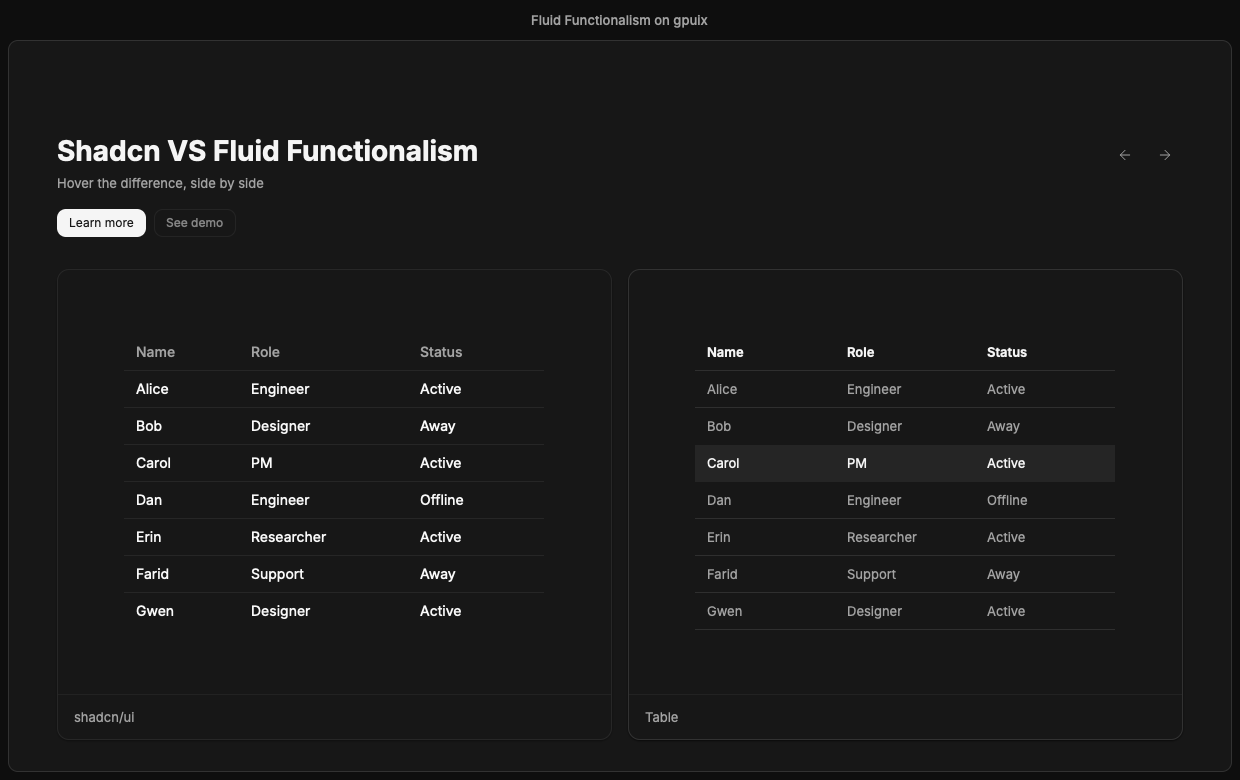
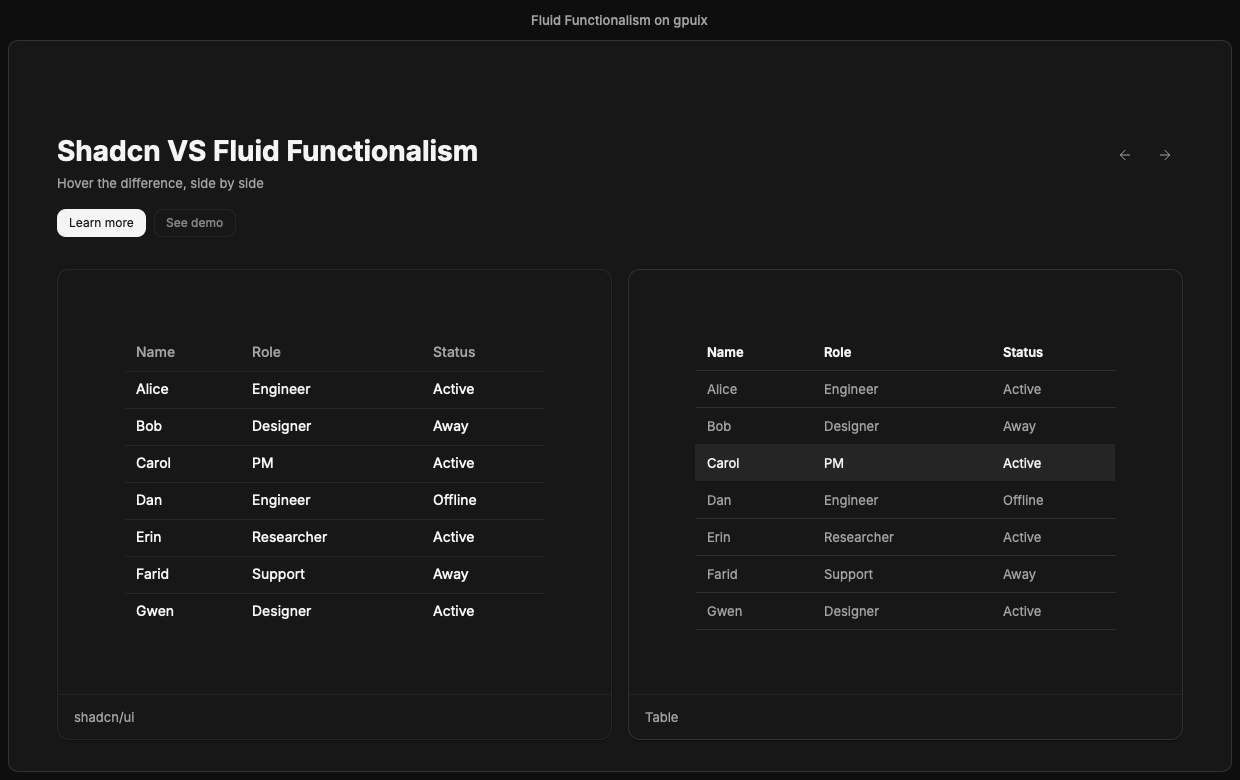
Compare: the shadcn table is a real display:table that sizes by content; the estimated-width drift entry closes

diff --git a/src/pages/compare/shadcn/table.tsx b/src/pages/compare/shadcn/table.tsx
@@ -2,37 +2,22 @@ import { For } from 'solid-js';
 import { weight, withAlpha } from '#/lib/theme';
 import { sc } from './theme';
 
-/** Inter at 14px averages about this per character; the cell padding is 12 each side. */
-const CHAR_WIDTH = 7.4;
-const CELL_PAD = 24;
-
 /**
- * `components/shadcn/table.tsx` with the preview's cell overrides (`px-3 py-2`). A browser's auto table layout
- * shares the row's width out in proportion to each column's longest cell; gpuix has no table layout, so the
- * columns grow in that proportion, estimated from the text lengths.
+ * `components/shadcn/table.tsx` with the preview's cell overrides (`px-3 py-2`): a `relative w-full overflow-auto`
+ * wrapper around a `w-full text-sm` collapsed-border table, whose columns size to their widest cell as in a browser.
  */
 export function ScTable(props: {
 	columns: readonly string[];
 	rows: readonly (readonly string[])[];
 	testId?: string;
 }) {
-	const grow = (column: number) =>
-		Math.max(
-			...[props.columns, ...props.rows].map((cells) => {
-				const cell = cells[column];
-				if (cell === undefined) throw new Error(`No cell in column ${column}`);
-				return cell.length;
-			}),
-		) *
-			CHAR_WIDTH +
-		CELL_PAD;
-
-	const cell = (text: string, column: number, header: boolean) => (
+	const cell = (text: string, header: boolean) => (
 		<div
+			role={header ? 'columnheader' : 'cell'}
 			style={{
-				flexBasis: 0,
-				flexGrow: grow(column),
-				minWidth: 0,
+				display: 'table-cell',
+				verticalAlign: 'middle',
+				textAlign: 'left',
 				paddingLeft: 12,
 				paddingRight: 12,
 				paddingTop: 8,
@@ -53,51 +38,53 @@ export function ScTable(props: {
 		</div>
 	);
 
+	const ruled = {
+		borderBottomStyle: 'solid',
+		borderBottomWidth: 1,
+		borderBottomColor: sc.border,
+	} as const;
+
 	return (
-		<div
-			role="table"
-			testId={props.testId}
-			style={{ display: 'flex', flexDirection: 'column', width: '100%' }}
-		>
+		<div style={{ position: 'relative', width: '100%', overflow: 'auto' }}>
 			<div
-				role="row"
+				role="table"
+				testId={props.testId}
 				style={{
-					display: 'flex',
-					flexDirection: 'row',
-					borderBottomStyle: 'solid',
-					borderBottomWidth: 1,
-					borderColor: sc.border,
+					display: 'table',
+					borderCollapse: 'collapse',
+					width: '100%',
 				}}
 			>
-				<For each={props.columns}>
-					{(column, index) => cell(column, index(), true)}
-				</For>
-			</div>
-			<For each={props.rows}>
-				{(row, rowIndex) => (
-					<div
-						role="row"
-						testId={
-							props.testId === undefined
-								? undefined
-								: `${props.testId}-row-${rowIndex()}`
-						}
-						style={{
-							display: 'flex',
-							flexDirection: 'row',
-							borderBottomStyle: 'solid',
-							borderBottomWidth: rowIndex() === props.rows.length - 1 ? 0 : 1,
-							borderColor: sc.border,
-							transitionProperty: 'background-color',
-							transitionDuration: '150ms',
-							transitionTimingFunction: 'cubic-bezier(0.4, 0, 0.2, 1)',
-							hover: { backgroundColor: withAlpha(sc.muted, 0.5) },
-						}}
-					>
-						<For each={row}>{(text, index) => cell(text, index(), false)}</For>
+				<div style={{ display: 'table-header-group' }}>
+					<div role="row" style={{ display: 'table-row', ...ruled }}>
+						<For each={props.columns}>{(column) => cell(column, true)}</For>
 					</div>
-				)}
-			</For>
+				</div>
+				<div style={{ display: 'table-row-group' }}>
+					<For each={props.rows}>
+						{(row, rowIndex) => (
+							<div
+								role="row"
+								testId={
+									props.testId === undefined
+										? undefined
+										: `${props.testId}-row-${rowIndex()}`
+								}
+								style={{
+									display: 'table-row',
+									...(rowIndex() === props.rows.length - 1 ? {} : ruled),
+									transitionProperty: 'background-color',
+									transitionDuration: '150ms',
+									transitionTimingFunction: 'cubic-bezier(0.4, 0, 0.2, 1)',
+									hover: { backgroundColor: withAlpha(sc.muted, 0.5) },
+								}}
+							>
+								<For each={row}>{(text) => cell(text, false)}</For>
+							</div>
+						)}
+					</For>
+				</div>
+			</div>
 		</div>
 	);
 }

diff --git a/drift/compare.md b/drift/compare.md
@@ -42,14 +42,6 @@ repeating it.
 - **Port:** a 2px outline at a 2px offset (`scRing`, `src/pages/compare/shadcn/theme.ts:73-74`); the gap shows what is behind, the page, where the source paints `--background`. The slider thumb's `ring-1` is a 1px outline at offset 0. The input shows it while it has focus.
 - **Fidelity:** approximated.
 
-## The table's columns are sized from estimated text widths
-
-- **Cause:** `gpuix gap`: no table layout (README "Missing features", the table row: columns cannot size to their widest cell).
-- **Original:** `<table class="w-full">` with auto layout: the row's width is shared in proportion to each column's longest cell.
-- **Port:** a flex row per table row whose cells `flex-grow` by (longest text length x 7.4 + 24) for the column, an estimate of Inter at 14px with the `px-3` padding (`src/pages/compare/shadcn/table.tsx:5-30`). The split is within a few pixels of the browser's for this data and would drift for other content.
-- **Workaround:** the estimate.
-- **Fidelity:** approximated.
-
 ## The inputs are gpuix `<input>`s with the field drawn around them
 
 - **Cause:** `port choice`.
